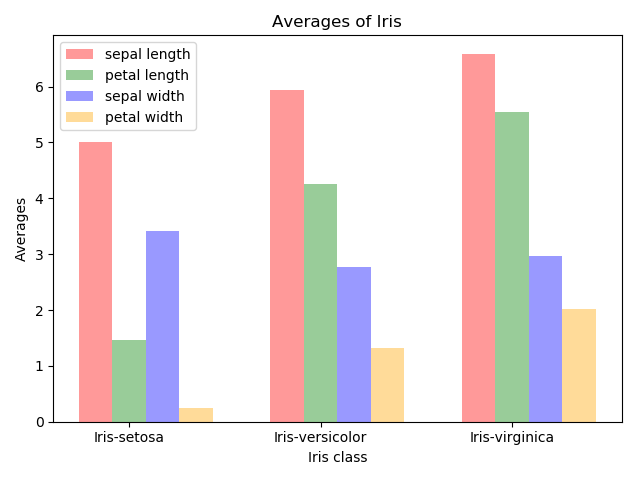
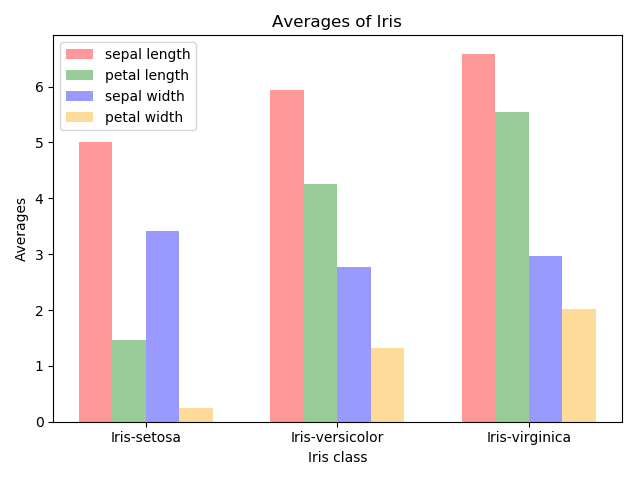
fixed x-axis alignment bug and updated images

Changed region(s): [[0.7188, 0.9062, 0.9062, 0.9375], [0.4375, 0.9062, 0.5938, 0.9375], [0.1562, 0.9062, 0.2812, 0.9375]]

diff --git a/iris.py b/iris.py
@@ -116,7 +116,7 @@ def result_to_chart(avgs):
     ax.set_xlabel('Iris class')
     ax.set_ylabel('Averages')
     ax.set_title('Averages of Iris')
-    ax.set_xticks(index + width / len(fields))
+    ax.set_xticks(index + (len(fields) - 1) / (2 * len(fields)) * width)
     ax.set_xticklabels(x_lables)
     ax.legend()
     fig.tight_layout()
